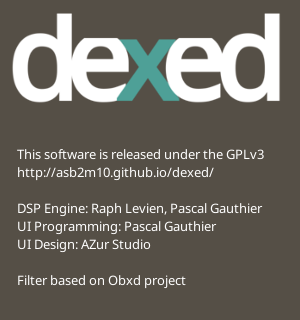
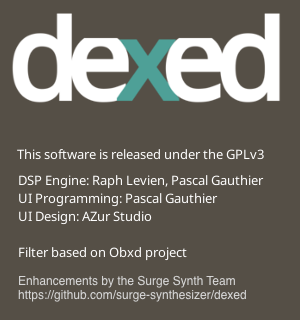
Vaguely clarify the about screen (#6)
1. Version and date on separate lines
2. No date in version
3. Point out it is a branch and point at github

Changed region(s): [[0.06, 0.5, 0.87, 0.8125], [0.06, 0.8438, 0.84, 0.9375]]

diff --git a/Source/GlobalEditor.cpp b/Source/GlobalEditor.cpp
@@ -79,9 +79,12 @@ public:
     void paint(Graphics &g) {
         g.drawImage (about_png, 0, 0, about_png.getWidth(), about_png.getHeight(),
                      0, 0, about_png.getWidth(), about_png.getHeight());
-        g.setColour(Colour(0xFF000000));
-        String ver("Version " DEXED_VERSION " ; build date " __DATE__ );
+        g.setColour(Colour(0xFFFFFFFF));
+        String ver("Version " DEXED_VERSION );
         g.drawSingleLineText(ver, 18, 130);
+        String bldd("Build Date " __DATE__ );
+        g.drawSingleLineText(bldd, 18, 143);
+
     }
 };
 //[/MiscUserDefs]
